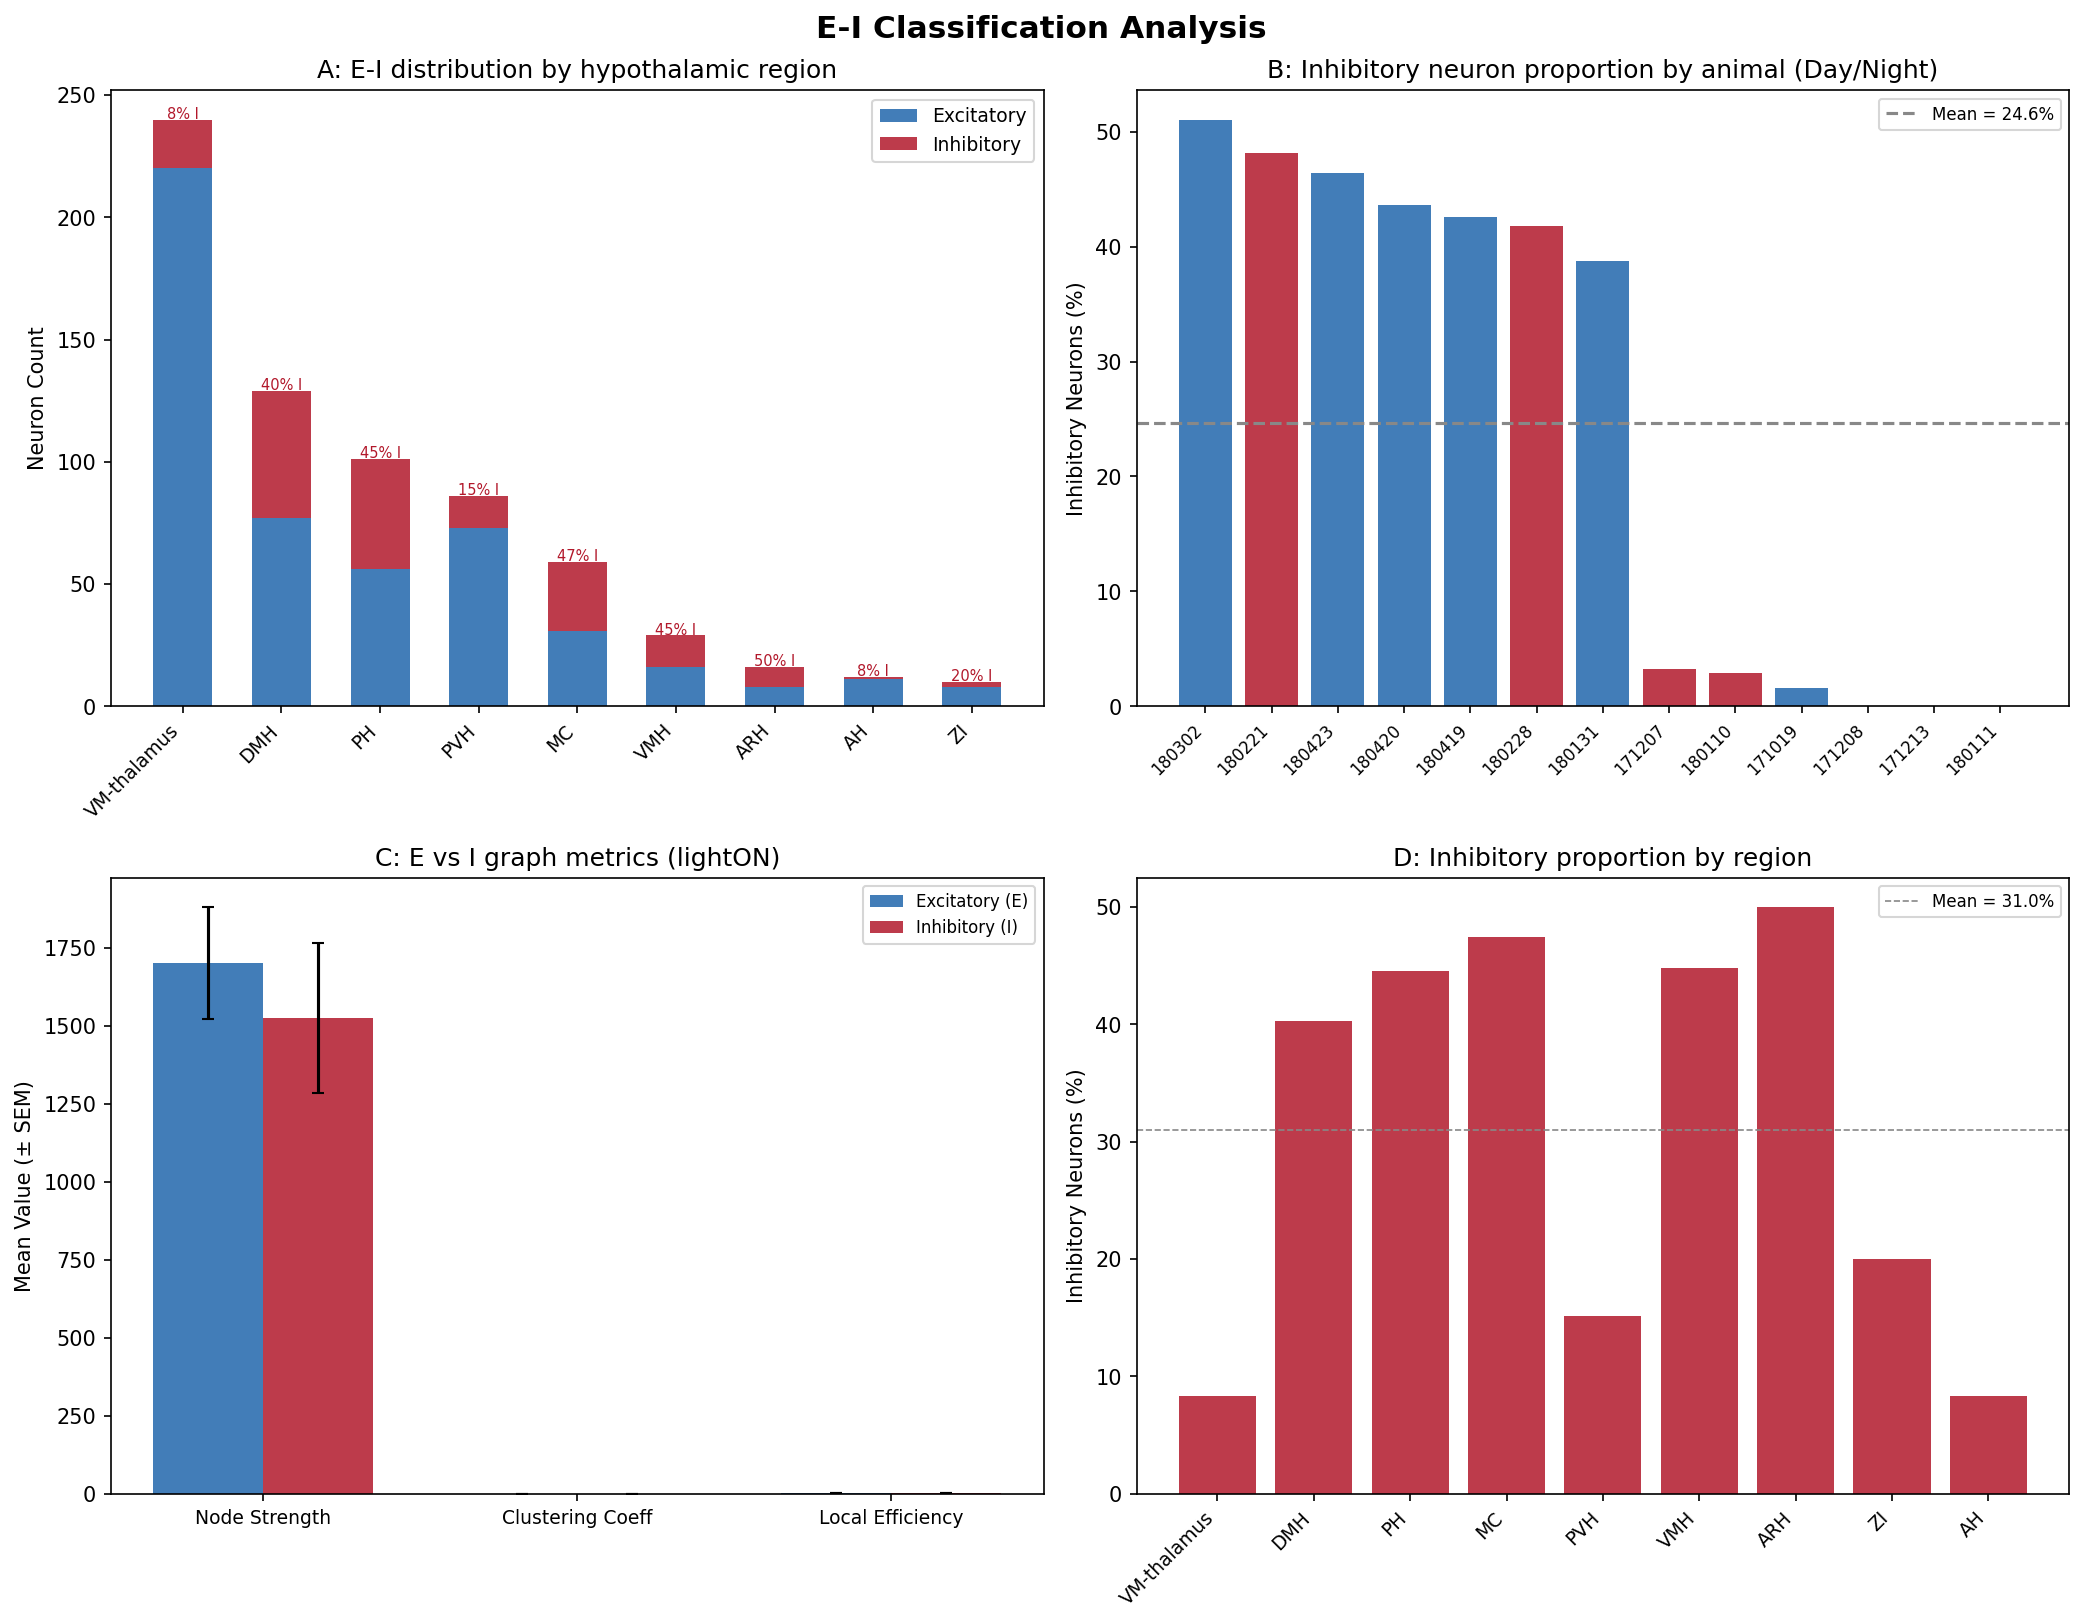
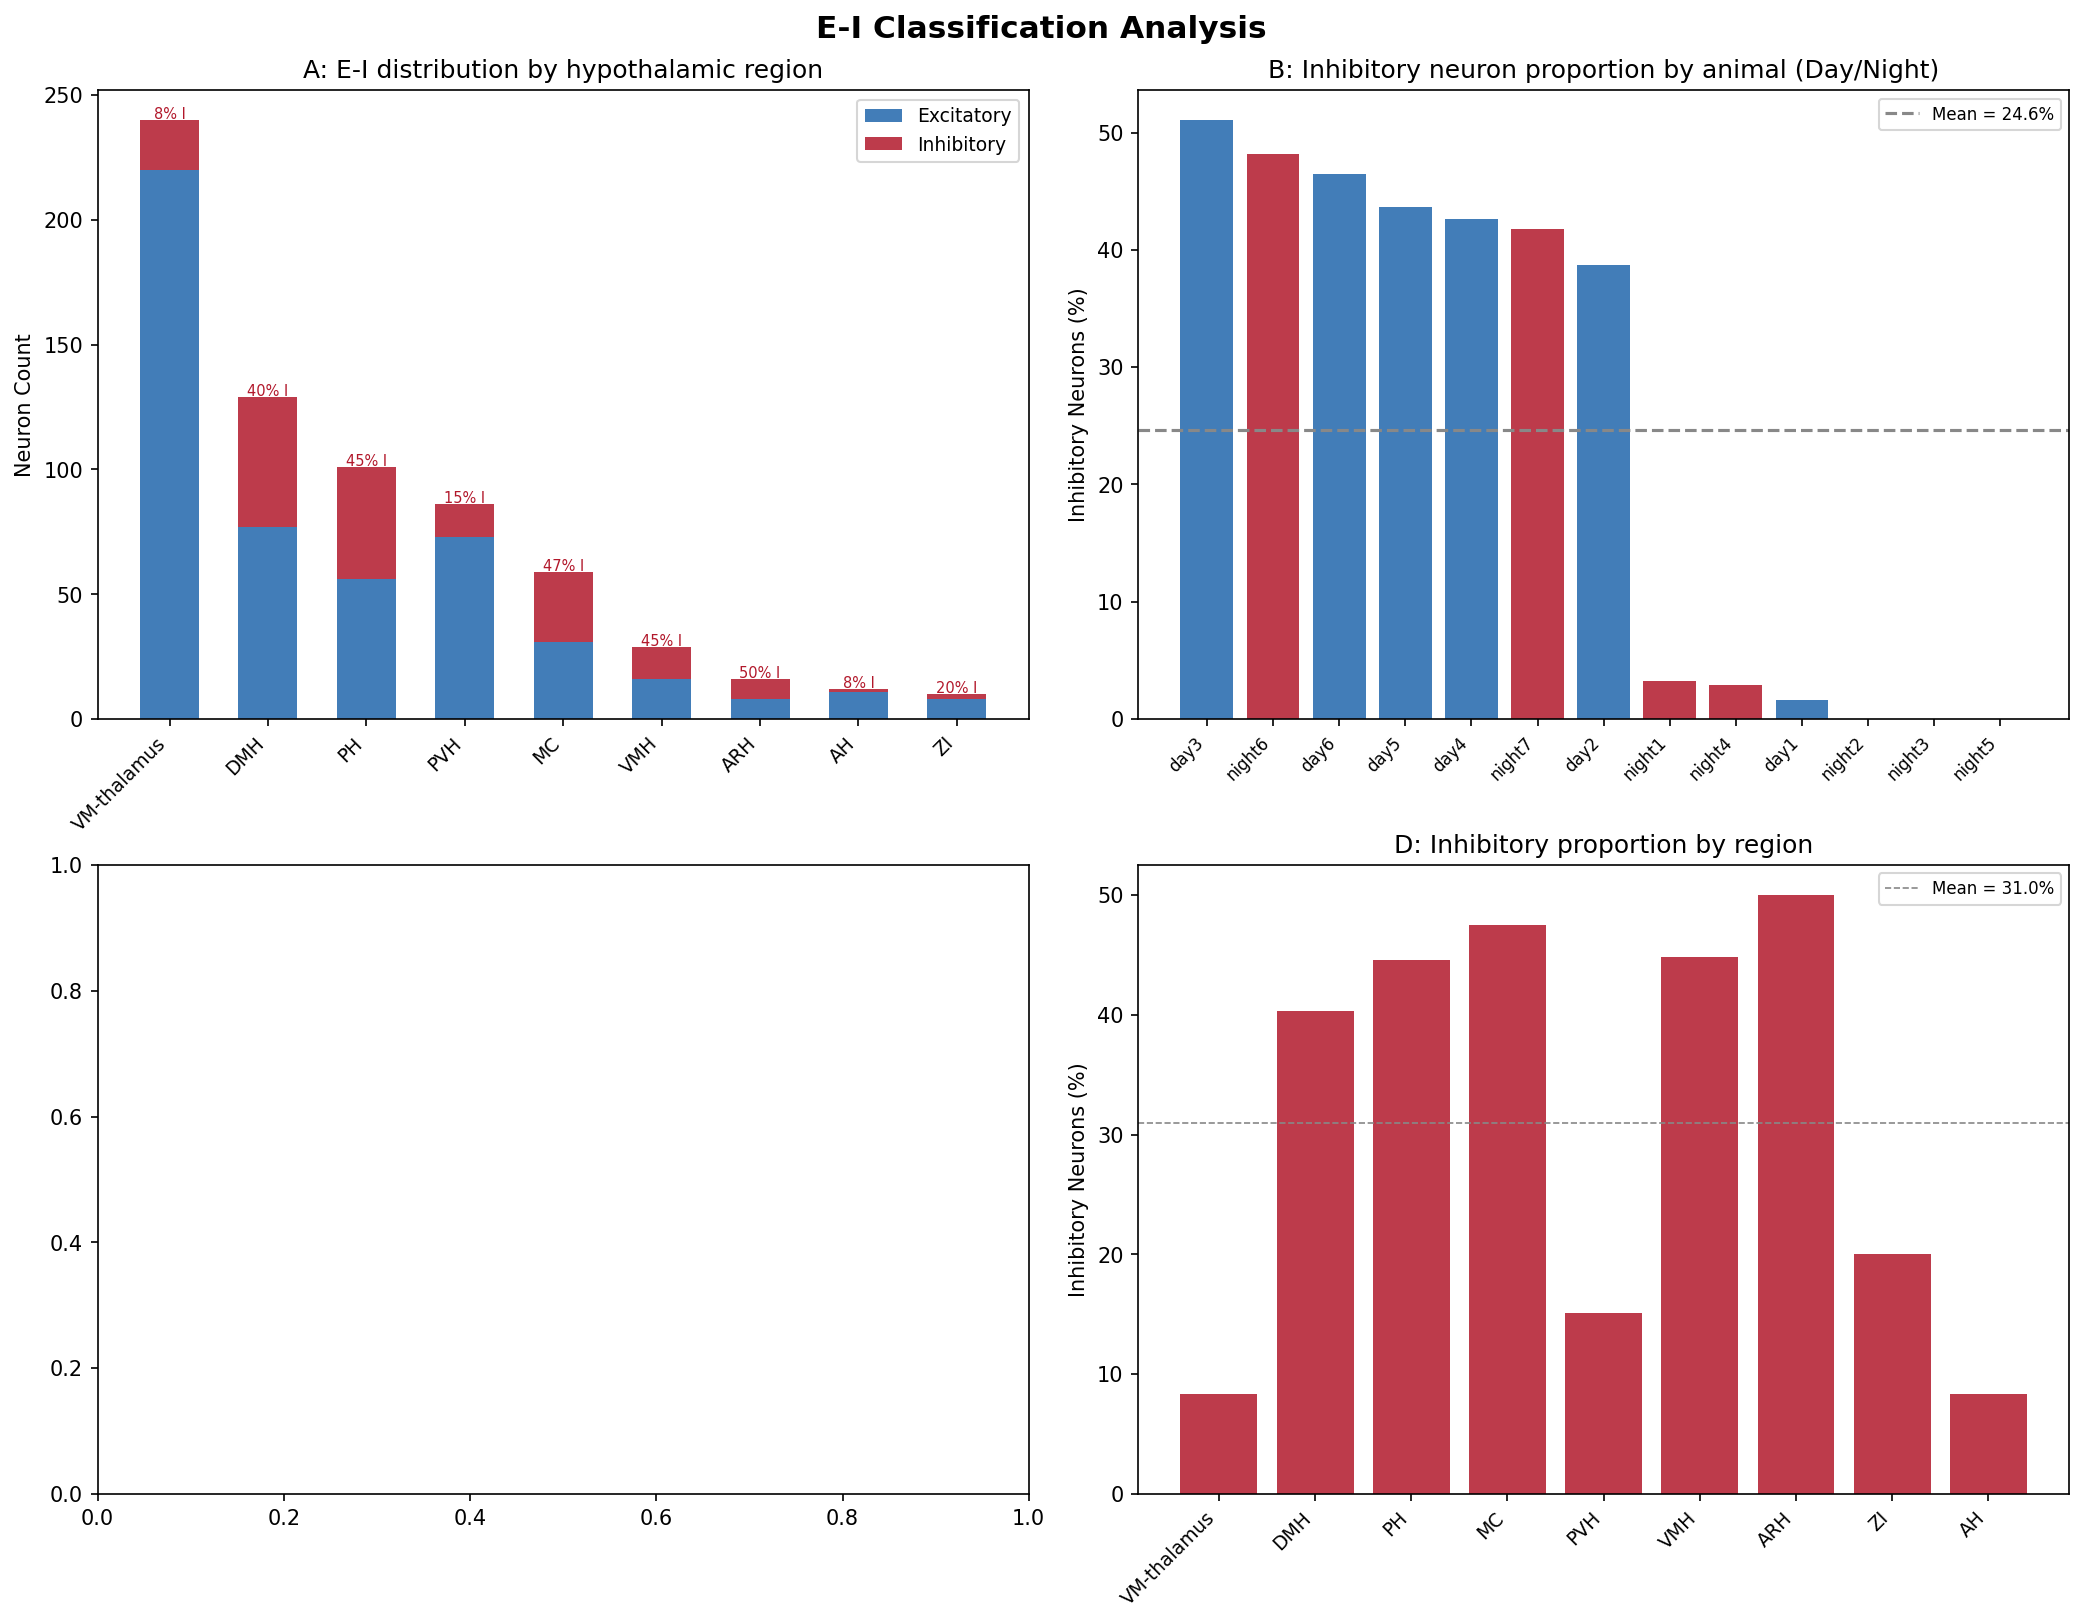
Fix EI classification for new animal labels
- Added REVERSE_MAP for put_inh file lookup (new→old IDs)
- Fixed int(animal) → string comparison for new labels
- Regenerated figS6 with day1-day6/night1-night7 labels

diff --git a/src/py/ei_classification.py b/src/py/ei_classification.py
@@ -31,6 +31,14 @@ DAYNIGHT = {
     "day6": "D",
 }
 
+# Reverse mapping for put_inh file lookup (new → old)
+REVERSE_MAP = {
+    "day1": "171019", "night1": "171207", "night2": "171208",
+    "night3": "171213", "night4": "180110", "night5": "180111",
+    "day2": "180131", "night6": "180221", "night7": "180228",
+    "day3": "180302", "day4": "180419", "day5": "180420", "day6": "180423",
+}
+
 
 def parse_put_inh(animal: str) -> set[int]:
     """Parse put_inh file, return set of 1-indexed inhibitory neuron IDs."""
@@ -56,8 +64,10 @@ def main():
     # ─── Add EI column ───────────────────────────────────────────
     ei_map = {}
     for animal in ANIMALS:
-        inh_ids = parse_put_inh(animal)
-        animal_neurons = df[df["animal"] == int(animal)]
+        # Find old ID for put_inh file lookup
+        old_id = REVERSE_MAP.get(animal, animal)
+        inh_ids = parse_put_inh(old_id)
+        animal_neurons = df[df["animal"] == animal]
         for _, row in animal_neurons.iterrows():
             nid = int(row["neuron_id"])
             key = (animal, nid)
